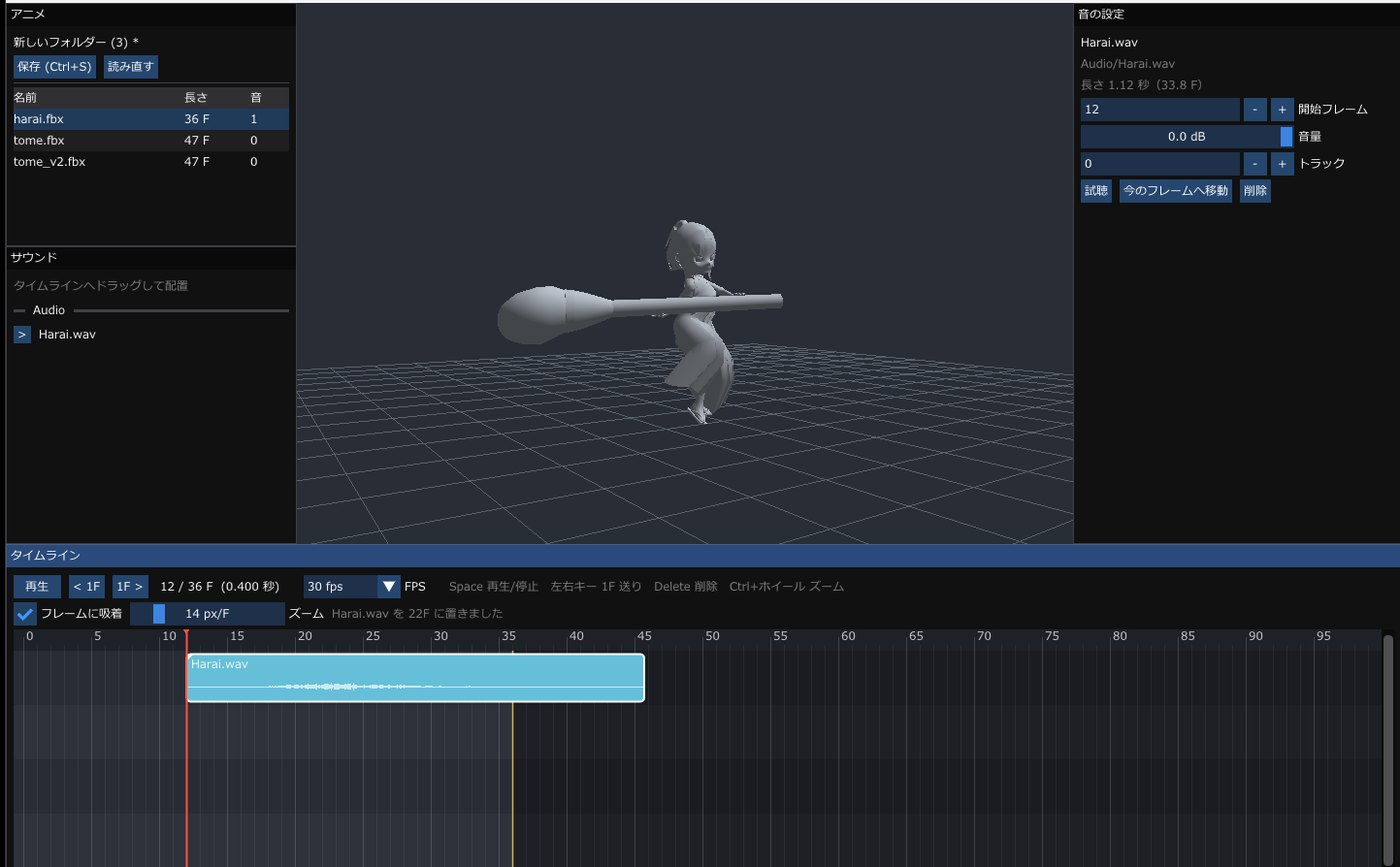
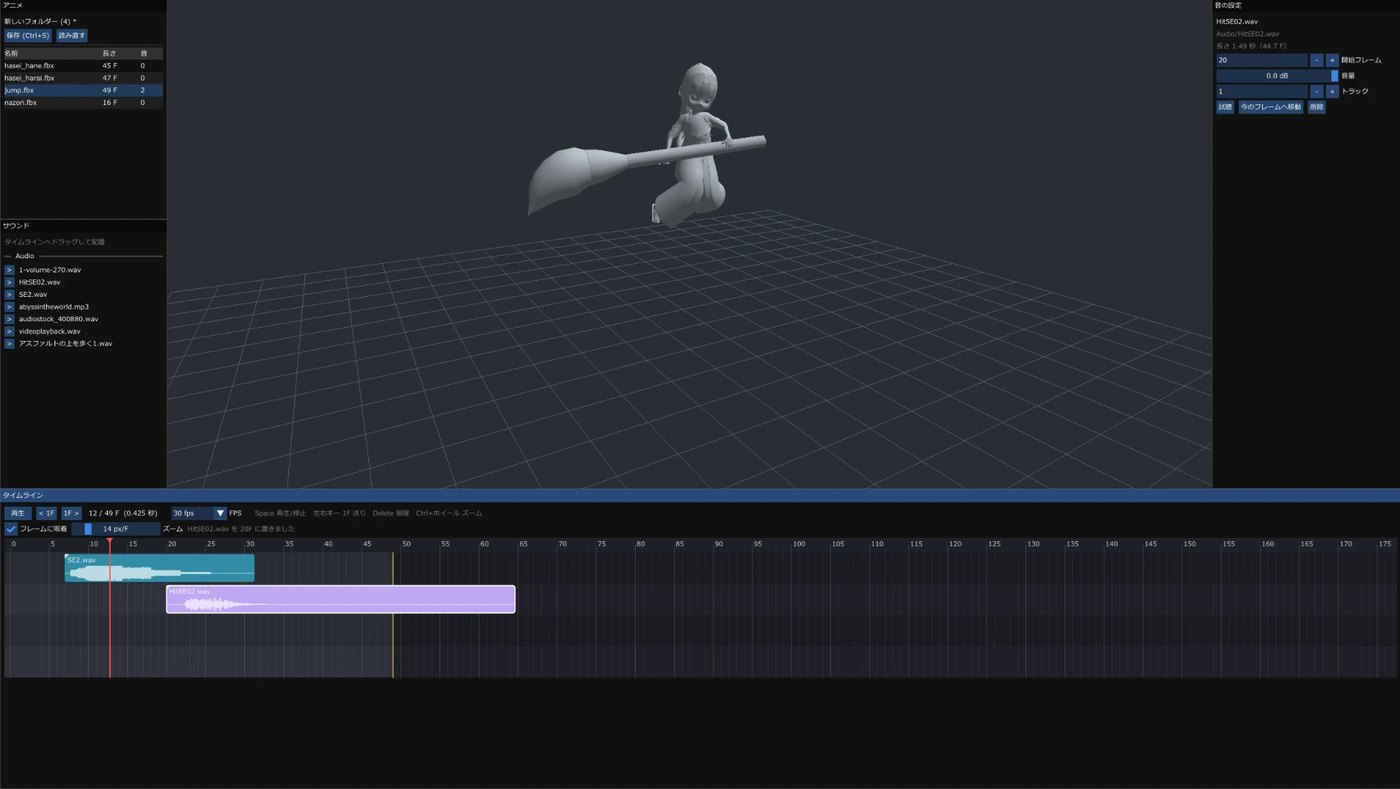
作品の画像: SoundMarker を新しい画面（ジャンプのアニメに音 2 つ）に差し替えた

diff --git a/index.html b/index.html
@@ -634,7 +634,7 @@ button{font:inherit}
           <h2 id="w5-title">SoundMarker</h2>
           <p class="w-lead"><span class="todo">準備中</span></p>
         </div>
-        <div class="w-shot"><img src="img/works/soundmarker.jpg" width="1400" height="867" alt="SoundMarker の画面（アニメーションのタイムラインに音を置く）" decoding="async"></div>
+        <div class="w-shot"><img src="img/works/soundmarker.jpg?v=2" width="1400" height="789" alt="SoundMarker の画面（アニメーションのタイムラインに音を置く）" decoding="async"></div>
         <div class="w-detail">
           <div class="w-pts-head">
             <h3>プロジェクト注目点</h3>
